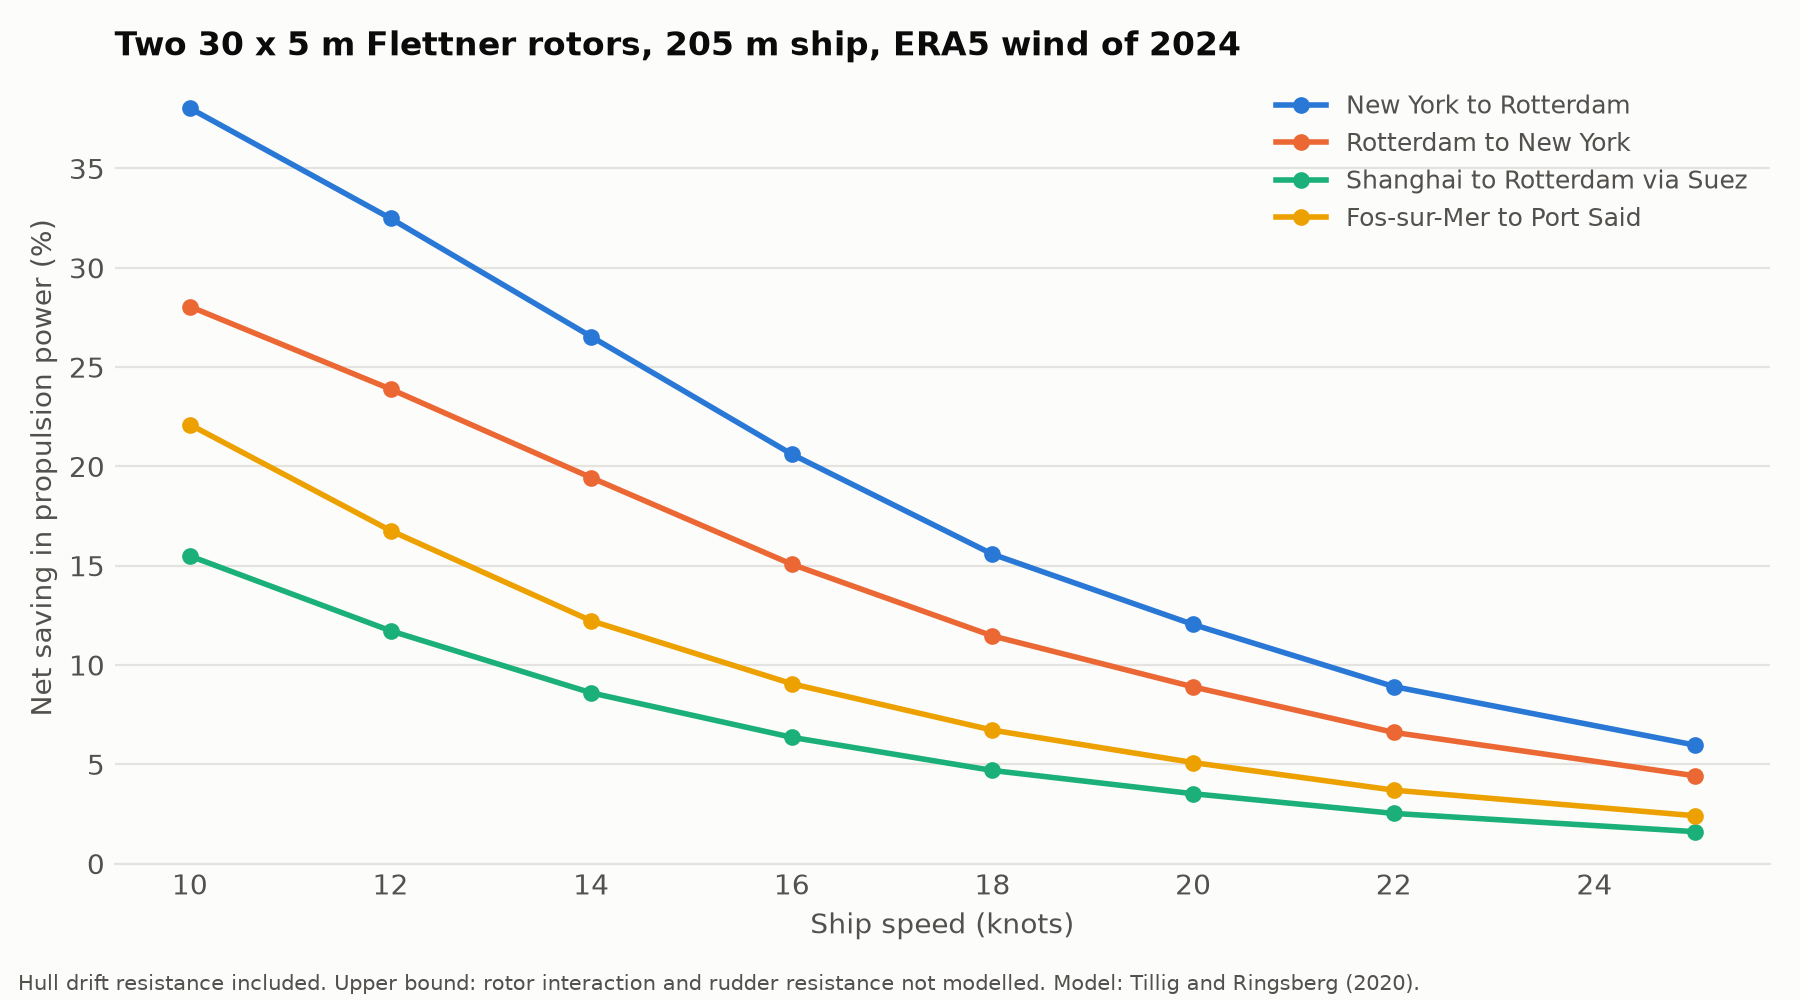
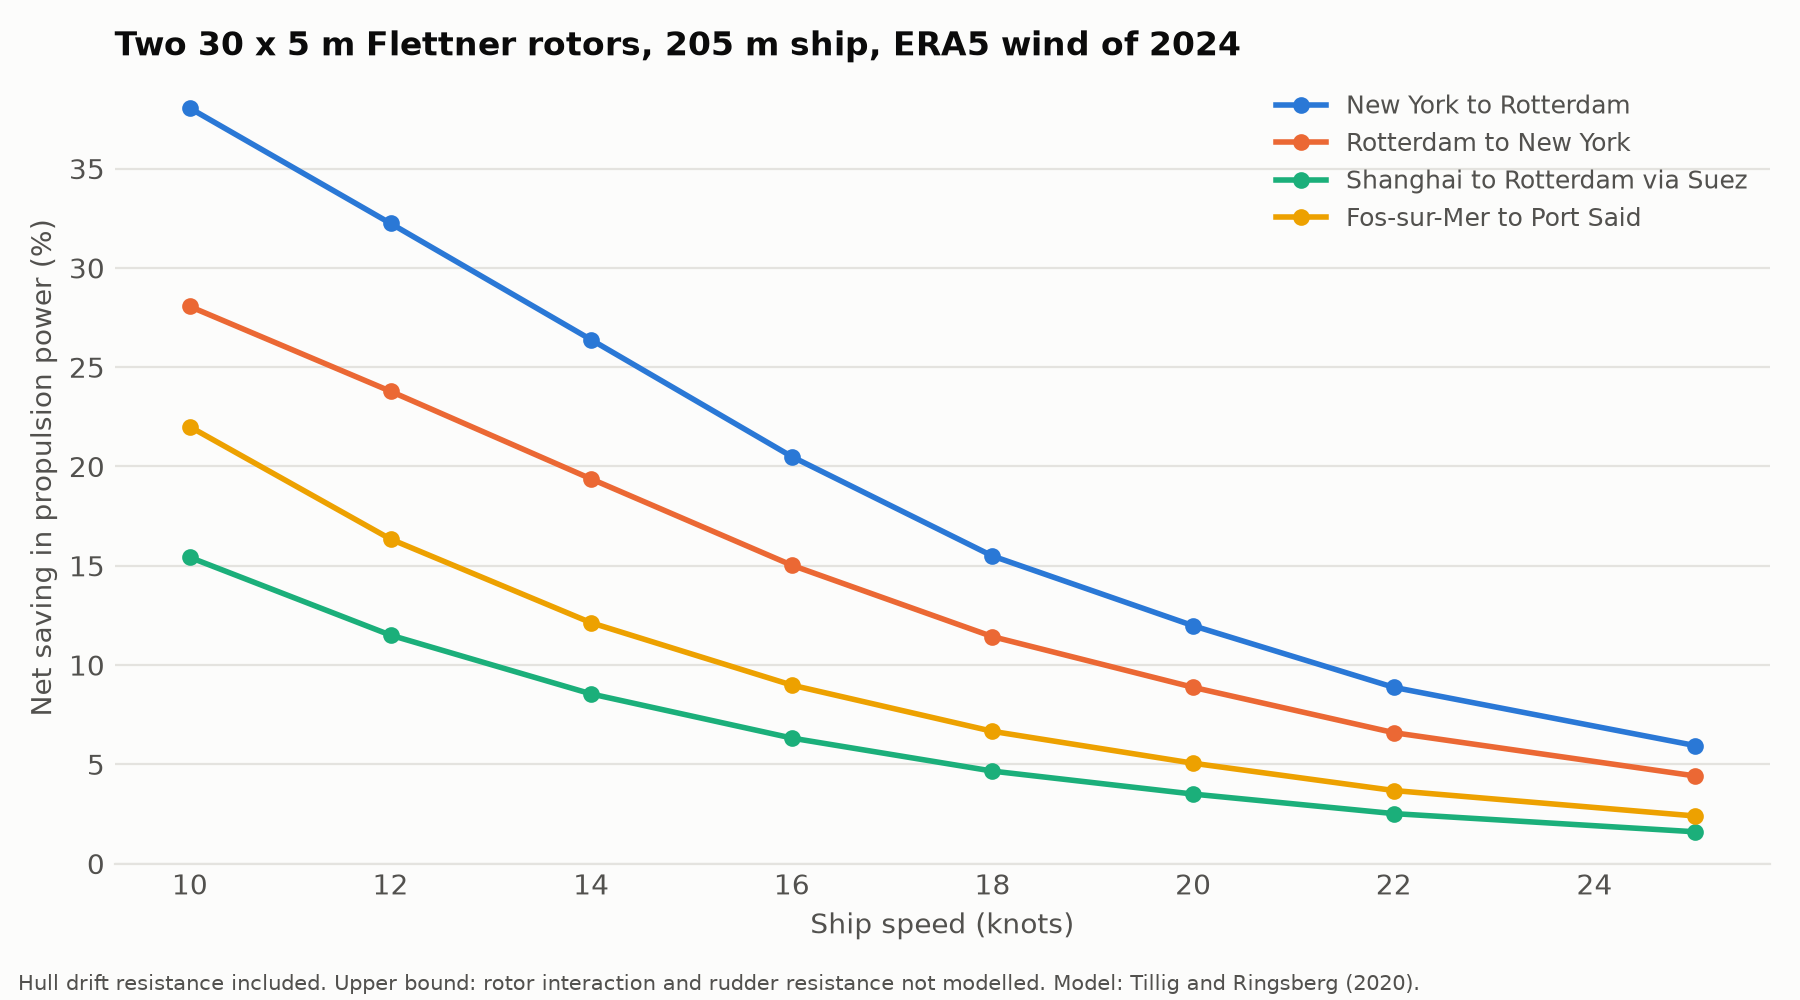
Keep rotor strip coefficients within the fitted spin ratio range
In a following wind close to ship speed, the apparent wind on some rotor
strips almost vanishes and the local spin ratio grew without bound, which
made the polynomial fits return about 500 kN of thrust. Strips above spin
ratio 4 now keep the coefficients of spin ratio 4, with motor power growing
with the cube of the rotational speed. Route savings move by 0.4 points at most.

diff --git a/src/gronflad/rotor.py b/src/gronflad/rotor.py
@@ -11,6 +11,11 @@ of Li et al. (2012) and corrected against full-scale measurements on a 4 x 24 m
 rotor. They hold for rotors with an aspect ratio of about 6 and an end disc of
 twice the rotor diameter. Agreement with measurements is best for spin ratios
 of 1.5 to 2.5 and degrades above 4, so Gronflad caps the spin ratio at 4.
+The cap applies at mid height. Near a following wind as fast as the ship, the
+apparent wind on some strips of the rotor almost vanishes and their local spin
+ratio grows without bound. Those strips keep the lift and drag coefficients of
+spin ratio 4 (saturation), and their motor power keeps growing with the cube of
+the rotational speed, so forces stay finite and the motor power is not lost.
 
 Operating limits default to the manufacturer data of a 30 x 5 m Norsepower
 Rotor Sail (brochure, 2025): 0 to 225 rpm and 270 kN maximum continuous thrust.
@@ -41,6 +46,13 @@ def c_drag(sr: float) -> float:
 
 def c_power(sr: float) -> float:
     return 0.0001 * sr**5 - 0.0004 * sr**4 + 0.0143 * sr**3 - 0.0168 * sr**2 + 0.0234 * sr
+
+
+def strip_coefficients(sr: float) -> tuple[float, float, float]:
+    """Lift, drag and power coefficients at a local spin ratio, held within the fitted range."""
+    if sr <= SPIN_RATIO_MAX:
+        return c_lift(sr), c_drag(sr), c_power(sr)
+    return c_lift(SPIN_RATIO_MAX), c_drag(SPIN_RATIO_MAX), c_power(SPIN_RATIO_MAX) * (sr / SPIN_RATIO_MAX) ** 3
 
 
 def wind_at_height(tws10: float, h: float) -> float:
@@ -101,12 +113,13 @@ def rotor_state(rotor: FlettnerRotor, tws10: float, twa_deg: float, ship_speed: 
             continue
         sr = omega * rotor.D / 2 / aws
         q = 0.5 * RHO_AIR * aws**2 * strip_area
-        lift, drag = q * c_lift(sr), q * c_drag(sr)
+        cl, cd, cp = strip_coefficients(sr)
+        lift, drag = q * cl, q * cd
         a = radians(awa)
         # Lift acts perpendicular to the apparent wind, the spin direction is chosen to push forward
         thrust += lift * sin(a) - drag * cos(a)
         side += lift * cos(a) + drag * sin(a)
-        power += q * aws * c_power(sr)
+        power += q * aws * cp
     mid = rotor.base_height + rotor.H / 2
     aws_mid, _ = apparent_wind(wind_at_height(tws10, mid), twa_deg, ship_speed)
     return RotorState(

diff --git a/tests/test_rotor.py b/tests/test_rotor.py
@@ -65,3 +65,12 @@ def test_operating_limits_are_respected():
             state = best_rotor_state(rotor, tws, twa, ship_speed=12, shaft_power_per_newton=10)
             assert state.omega * 60 / (2 * 3.141592653589793) <= rotor.max_rpm + 1e-9
             assert state.thrust <= rotor.max_thrust * rotor.count + 1e-6
+
+
+def test_following_wind_at_ship_speed_stays_finite():
+    # 5 m/s at 10 m in a following wind matches a 12 knot ship somewhere on the rotor height
+    rotor = FlettnerRotor(count=2)
+    V = 12 * 1852 / 3600
+    thrusts = [best_rotor_state(rotor, 5.0, twa, V, 1.0).thrust for twa in (170, 175, 179.9, 180)]
+    assert max(thrusts) < 20e3
+    assert abs(thrusts[-1] - thrusts[-2]) < 5e3
